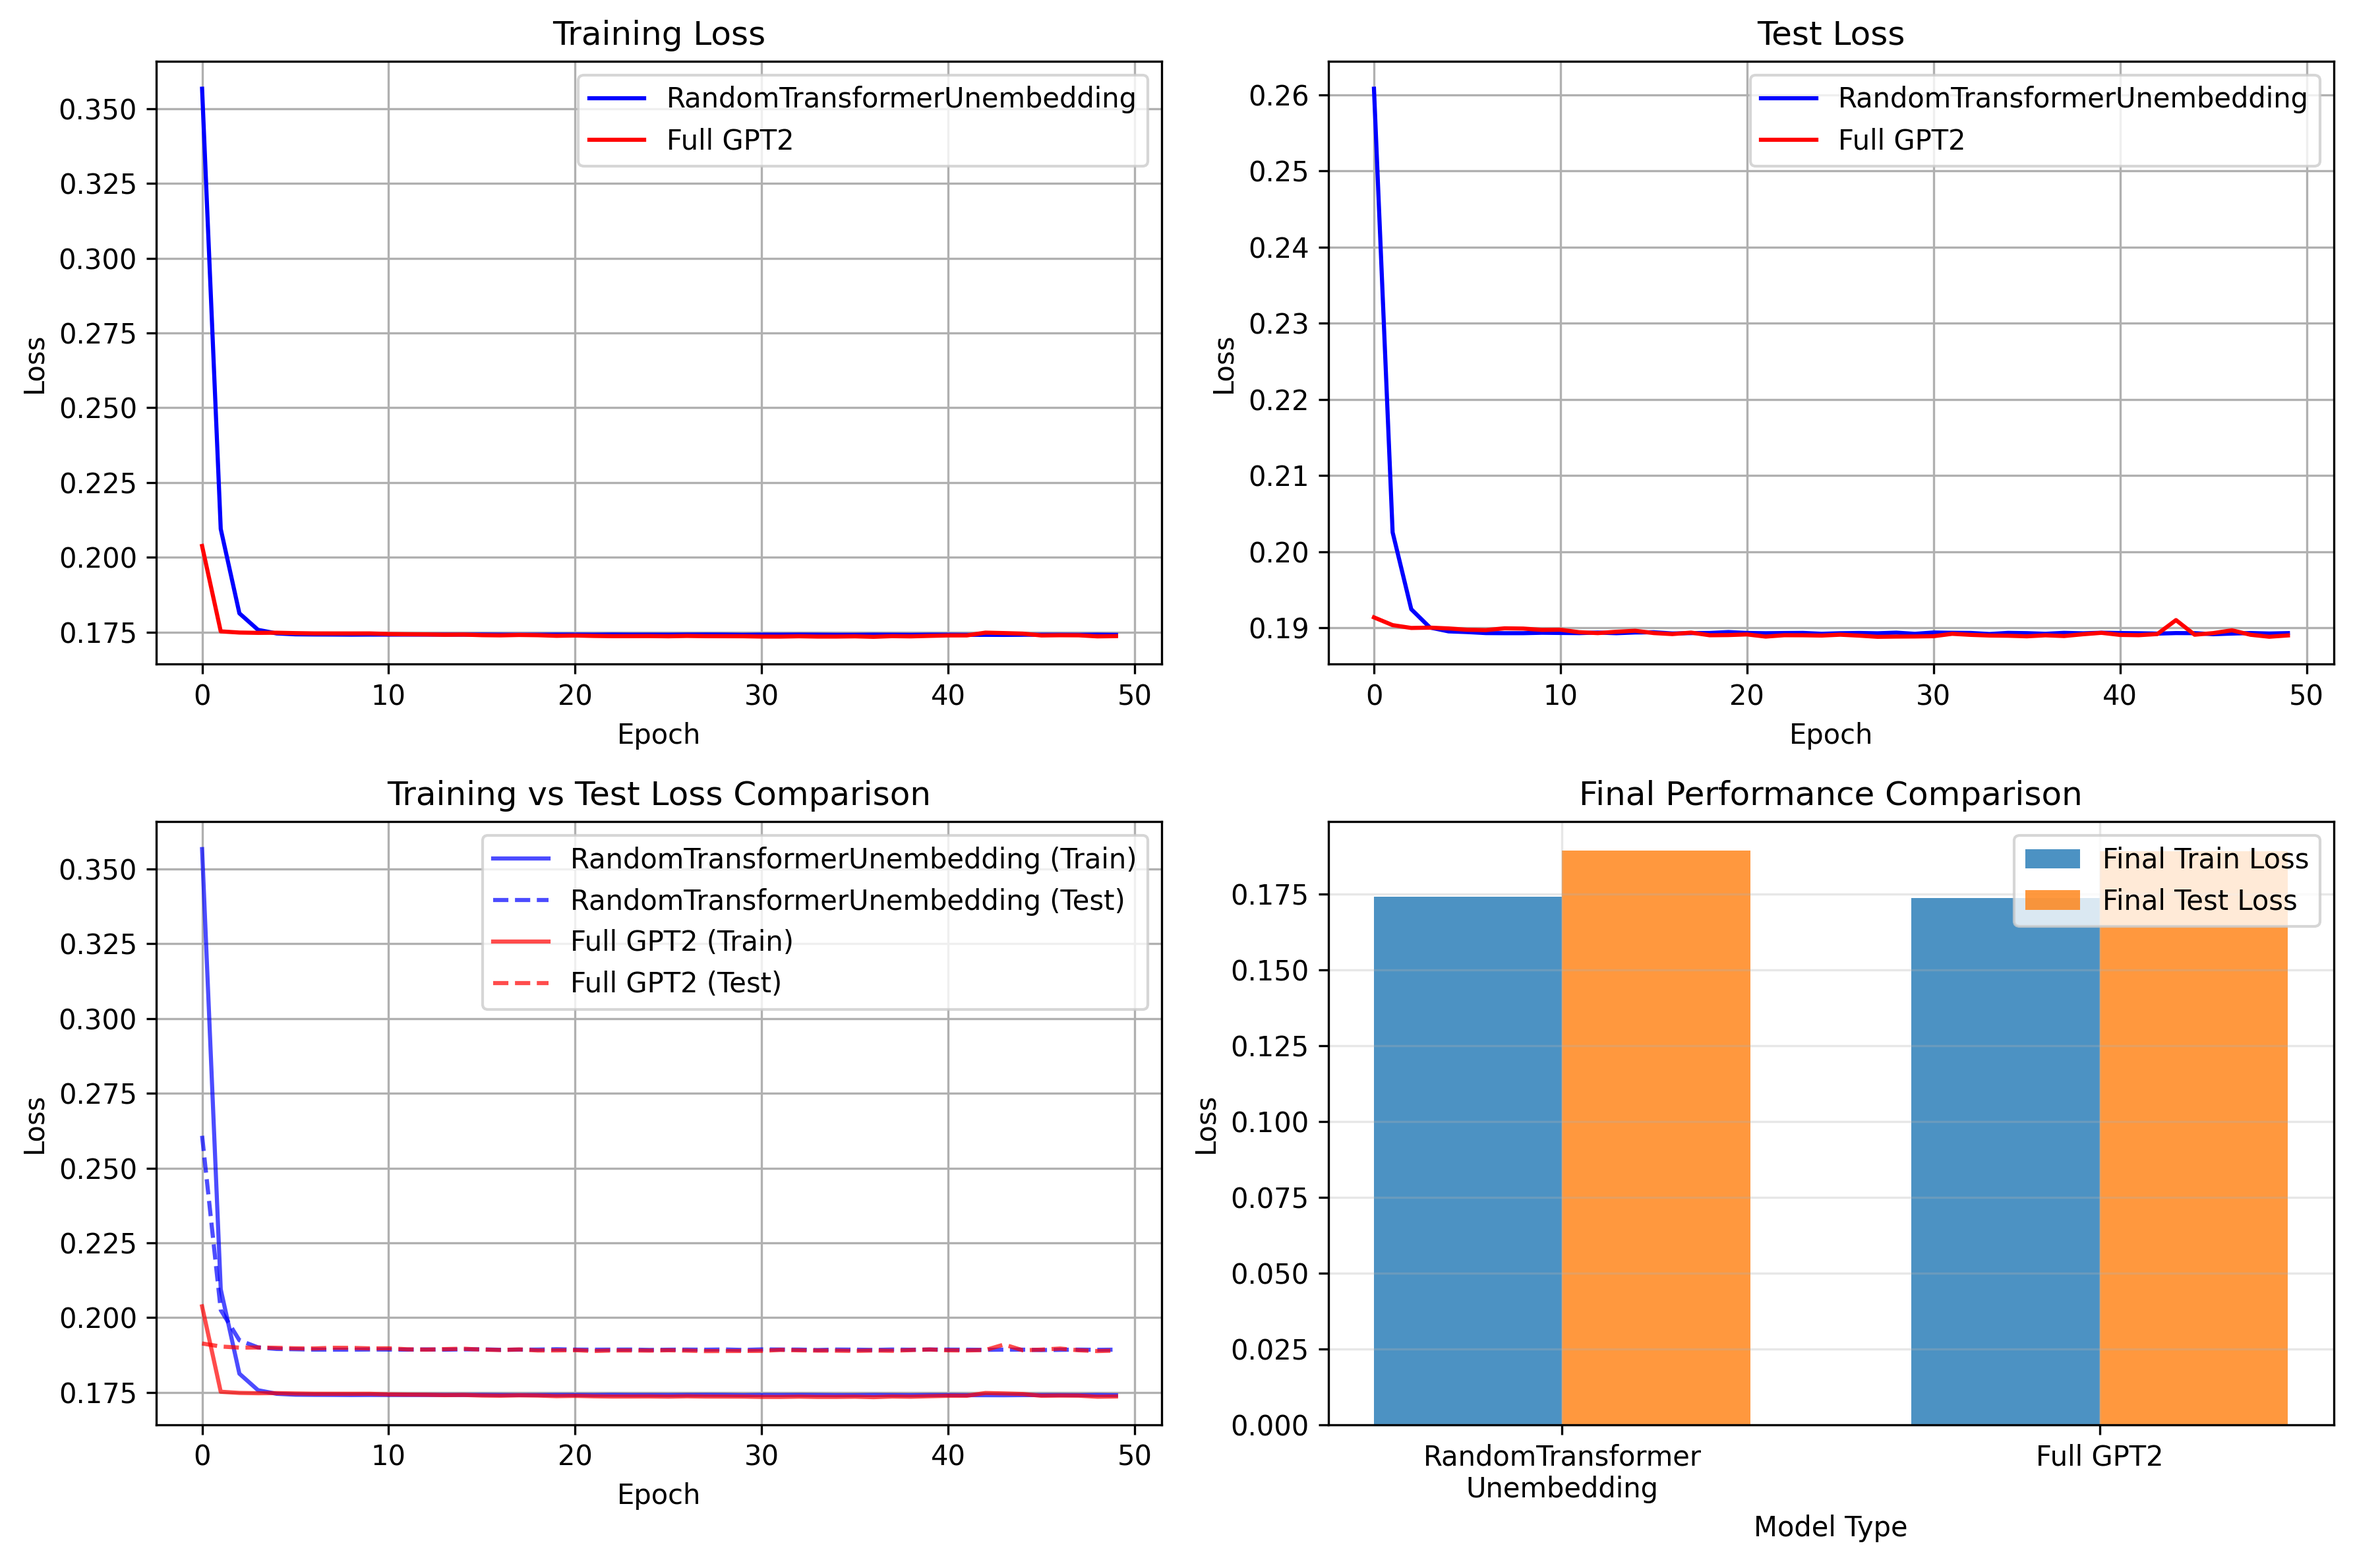
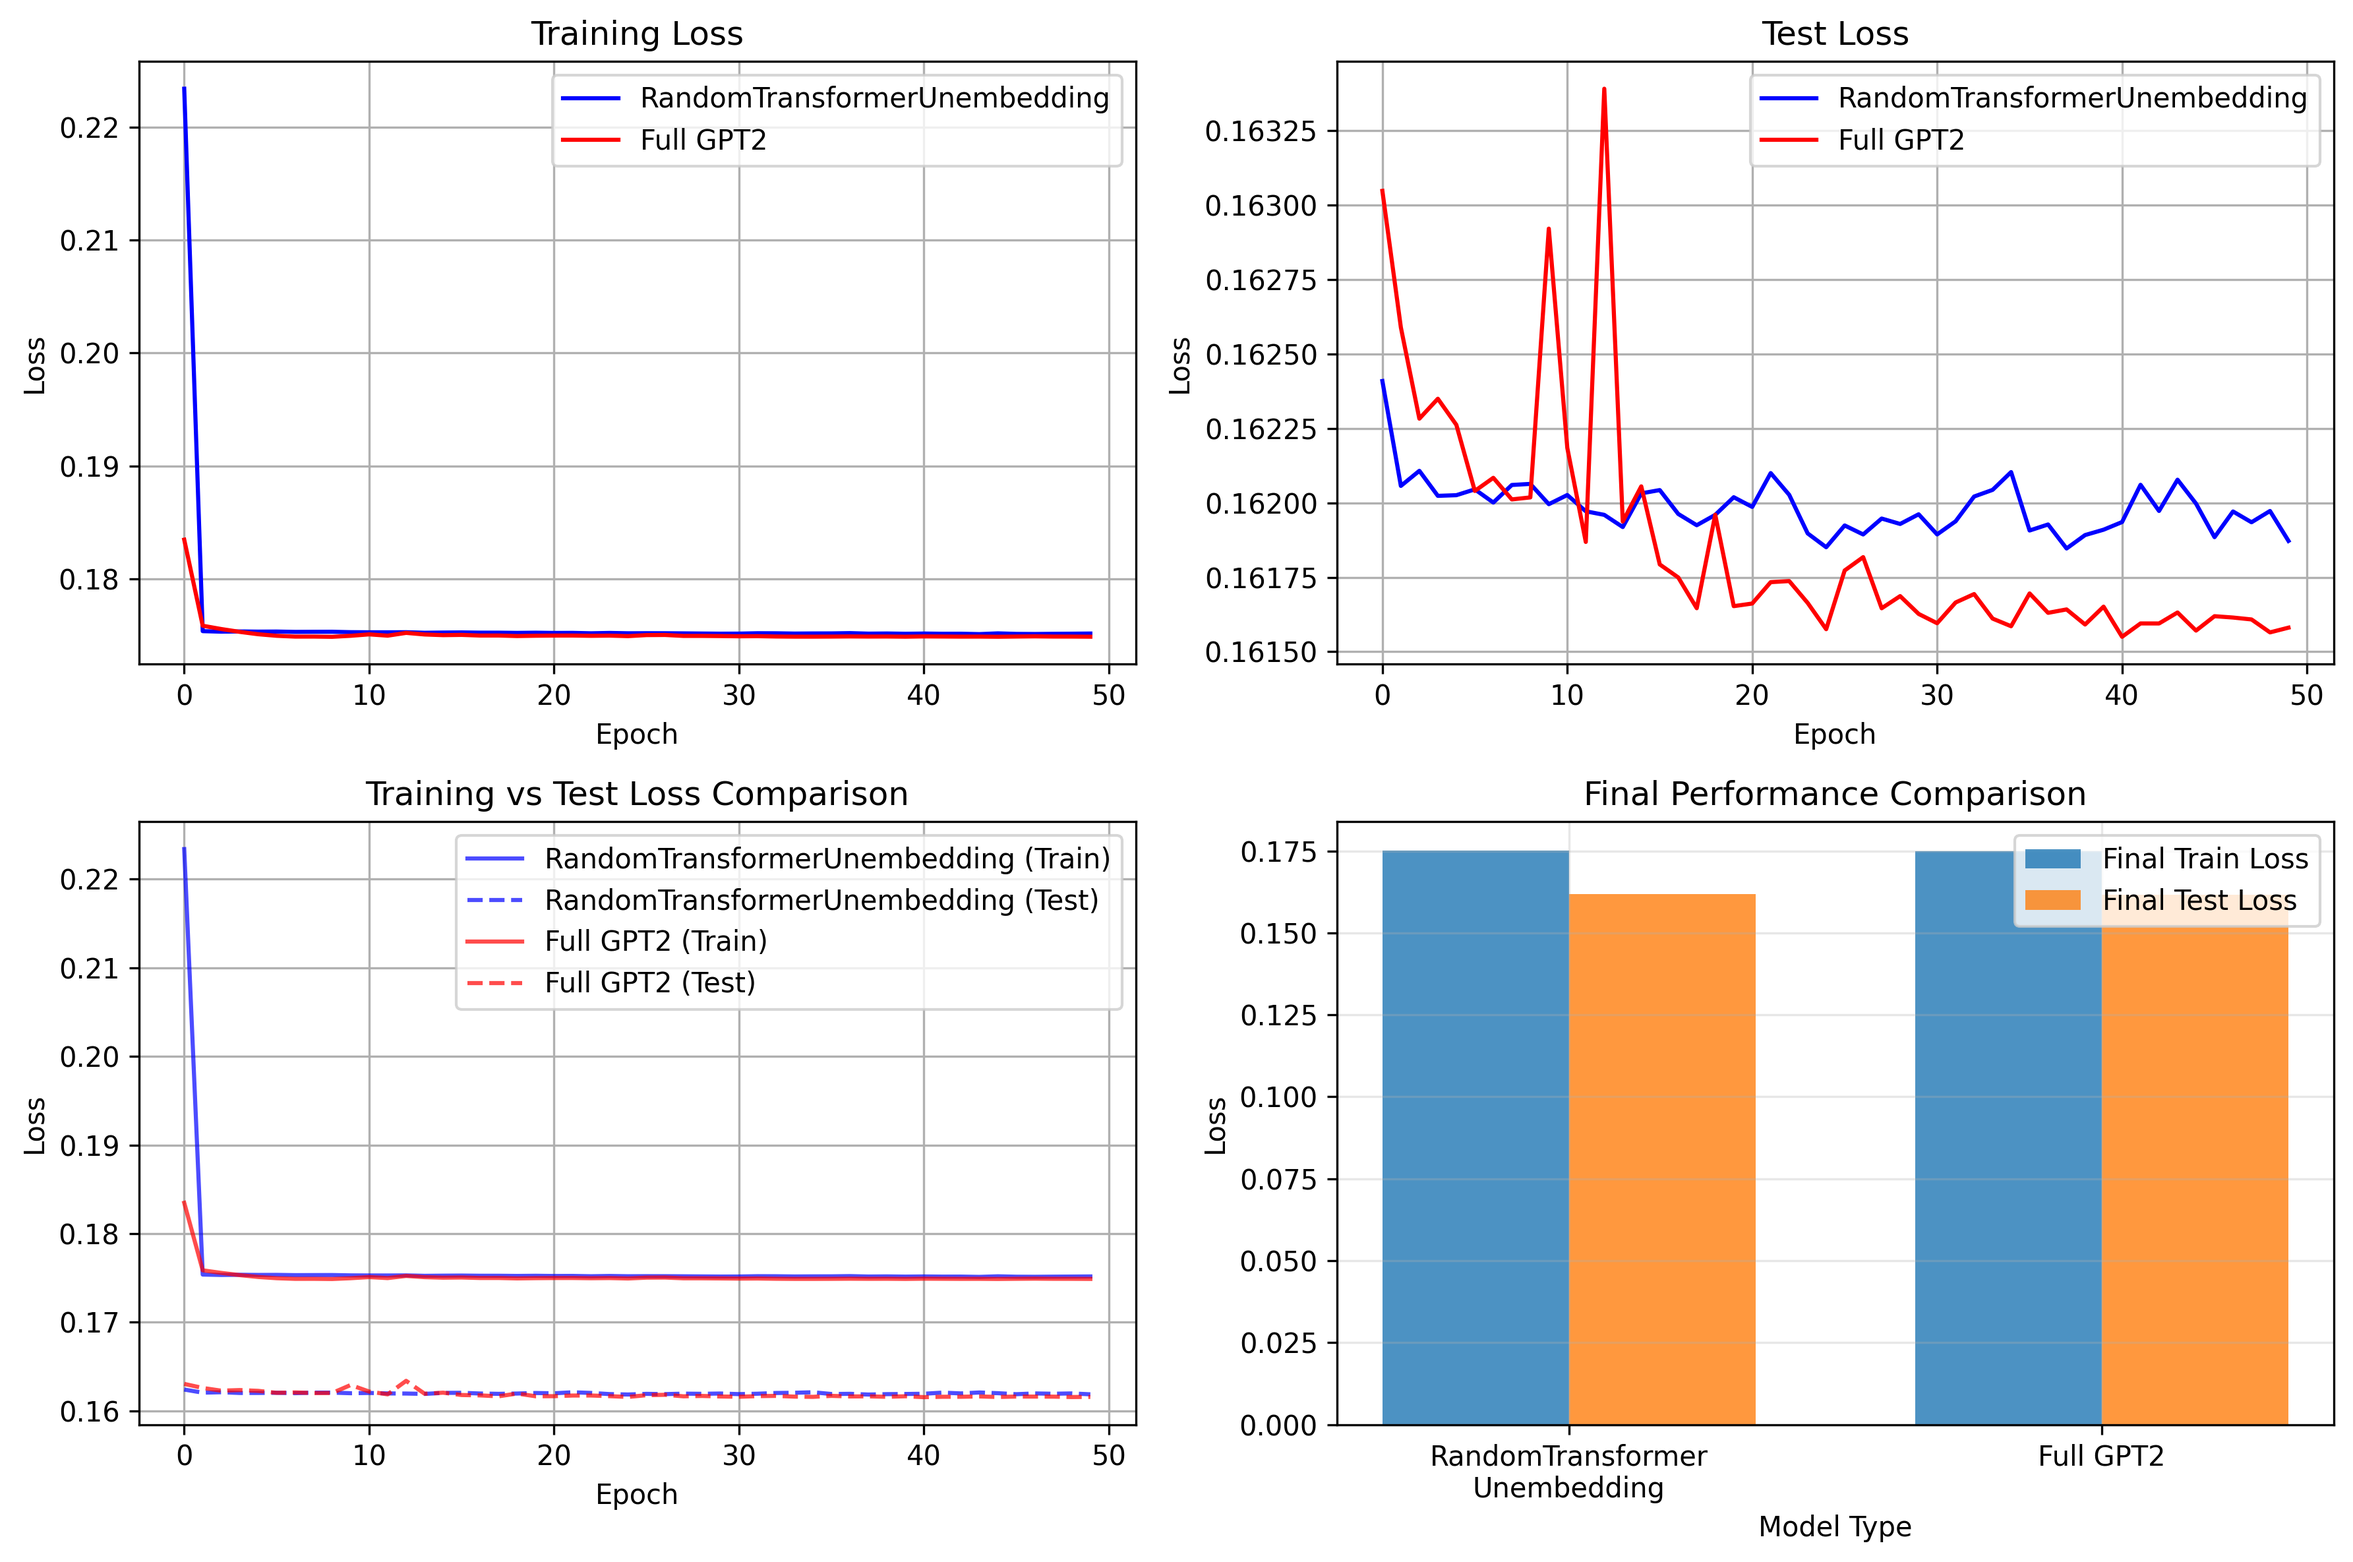
correct training data

diff --git a/train_output_layer.py b/train_output_layer.py
@@ -9,20 +9,42 @@ from src.models.gpt2 import GPT2
 from src.models.randomTransformer import RandomTransformerUnembedding
 from src.core import Config
 
-# Load the pre-computed activation dataset
-print("Loading activation dataset...")
-with open('activation_dataset.pkl', 'rb') as f:
-    activation_data = pickle.load(f)
+# Helper to load and preprocess data
+def load_data(pkl_path):
+    with open(pkl_path, 'rb') as f:
+        data = pickle.load(f)
+    multi_sys_ys = data['multi_sys_ys']
+    N = np.prod(multi_sys_ys.shape[:-2])
+    seq_len = multi_sys_ys.shape[-2]
+    inputs = multi_sys_ys.reshape(N, seq_len, 57)
+    targets = inputs[..., -5:]
+    return inputs, targets
 
-activations = activation_data['activations']
-targets = activation_data['targets']
-n_embd = activation_data['n_embd']
-n_dims_out = activation_data['n_dims_out']
+# Load train and val data
+print("Loading training data from train_interleaved_traces_ortho_haar_ident_C_multi_cut.pkl ...")
+train_inputs, train_targets = load_data('src/DataRandomTransformer/train_interleaved_traces_ortho_haar_ident_C_multi_cut.pkl')
+print(f"Loaded train inputs shape: {train_inputs.shape}")
+print(f"Loaded train targets shape: {train_targets.shape}")
 
-print(f"Loaded activations shape: {activations.shape}")
-print(f"Loaded targets shape: {targets.shape}")
-print(f"Embedding dimension: {n_embd}")
-print(f"Output dimension: {n_dims_out}")
+print("Loading validation data from val_interleaved_traces_ortho_haar_ident_C_haystack_len_1.pkl ...")
+val_inputs, val_targets = load_data('src/DataRandomTransformer/val_interleaved_traces_ortho_haar_ident_C_haystack_len_1.pkl')
+print(f"Loaded val inputs shape: {val_inputs.shape}")
+print(f"Loaded val targets shape: {val_targets.shape}")
+
+# Randomly sample 10% of samples for faster training
+np.random.seed(42)  # For reproducibility
+
+train_indices = np.random.choice(len(train_inputs), size=int(0.1 * len(train_inputs)), replace=False)
+val_indices = np.random.choice(len(val_inputs), size=int(0.1 * len(val_inputs)), replace=False)
+
+train_inputs = train_inputs[train_indices]
+train_targets = train_targets[train_indices]
+val_inputs = val_inputs[val_indices]
+val_targets = val_targets[val_indices]
+
+print(f"Using 10% of samples: {len(train_inputs)} training samples and {len(val_inputs)} validation samples")
+print(f"Final train inputs shape: {train_inputs.shape}")
+print(f"Final val inputs shape: {val_inputs.shape}")
 
 # Create dataset class for activations
 class ActivationDataset(Dataset):
@@ -37,16 +59,14 @@ class ActivationDataset(Dataset):
         return self.activations[idx], self.targets[idx]
 
 # Create datasets
-dataset = ActivationDataset(activations, targets)
-train_size = int(0.8 * len(dataset))
-test_size = len(dataset) - train_size
-train_dataset, test_dataset = torch.utils.data.random_split(dataset, [train_size, test_size])
+train_dataset = ActivationDataset(train_inputs, train_targets)
+val_dataset = ActivationDataset(val_inputs, val_targets)
 
 train_loader = DataLoader(train_dataset, batch_size=32, shuffle=True)
-test_loader = DataLoader(test_dataset, batch_size=32, shuffle=False)
+test_loader = DataLoader(val_dataset, batch_size=32, shuffle=False)
 
 print(f"Training samples: {len(train_dataset)}")
-print(f"Test samples: {len(test_dataset)}")
+print(f"Validation samples: {len(val_dataset)}")
 
 # Model 1: RandomTransformerUnembedding (only output layer trainable)
 def create_random_transformer_model(shared_weights=None):
@@ -67,21 +87,18 @@ def create_random_transformer_model(shared_weights=None):
         n_dims_out=n_dims_out
     )
     if shared_weights is not None:
-        # Copy weights for embedding and backbone
         model._read_in.load_state_dict(shared_weights['embedding'])
         model._backbone.load_state_dict(shared_weights['backbone'])
     return model
 
-# Model 2: Full GPT2 model (all layers trainable)
 def create_gpt2_model(shared_weights=None):
     config = Config()
-    n_dims_in = 57  # 5 + (2*25) + 2
+    n_dims_in = 57
     n_positions = 250
     n_embd = 128
     n_layer = 12
     n_head = 8
     n_dims_out = 5
-    
     model = GPT2(
         n_dims_in=n_dims_in,
         n_positions=n_positions,
@@ -91,14 +108,11 @@ def create_gpt2_model(shared_weights=None):
         n_dims_out=n_dims_out
     )
     if shared_weights is not None:
-        # Copy weights for embedding and backbone
         model._read_in.load_state_dict(shared_weights['embedding'])
         model._backbone.load_state_dict(shared_weights['backbone'])
     return model
 
-# Initialize shared random weights
 print("Initializing shared random weights for embedding and backbone...")
-# Create a temp RandomTransformerUnembedding to get random weights
 _temp_model = RandomTransformerUnembedding(
     n_dims_in=57, n_positions=250, n_embd=128, n_layer=12, n_head=8, n_dims_out=5
 )
